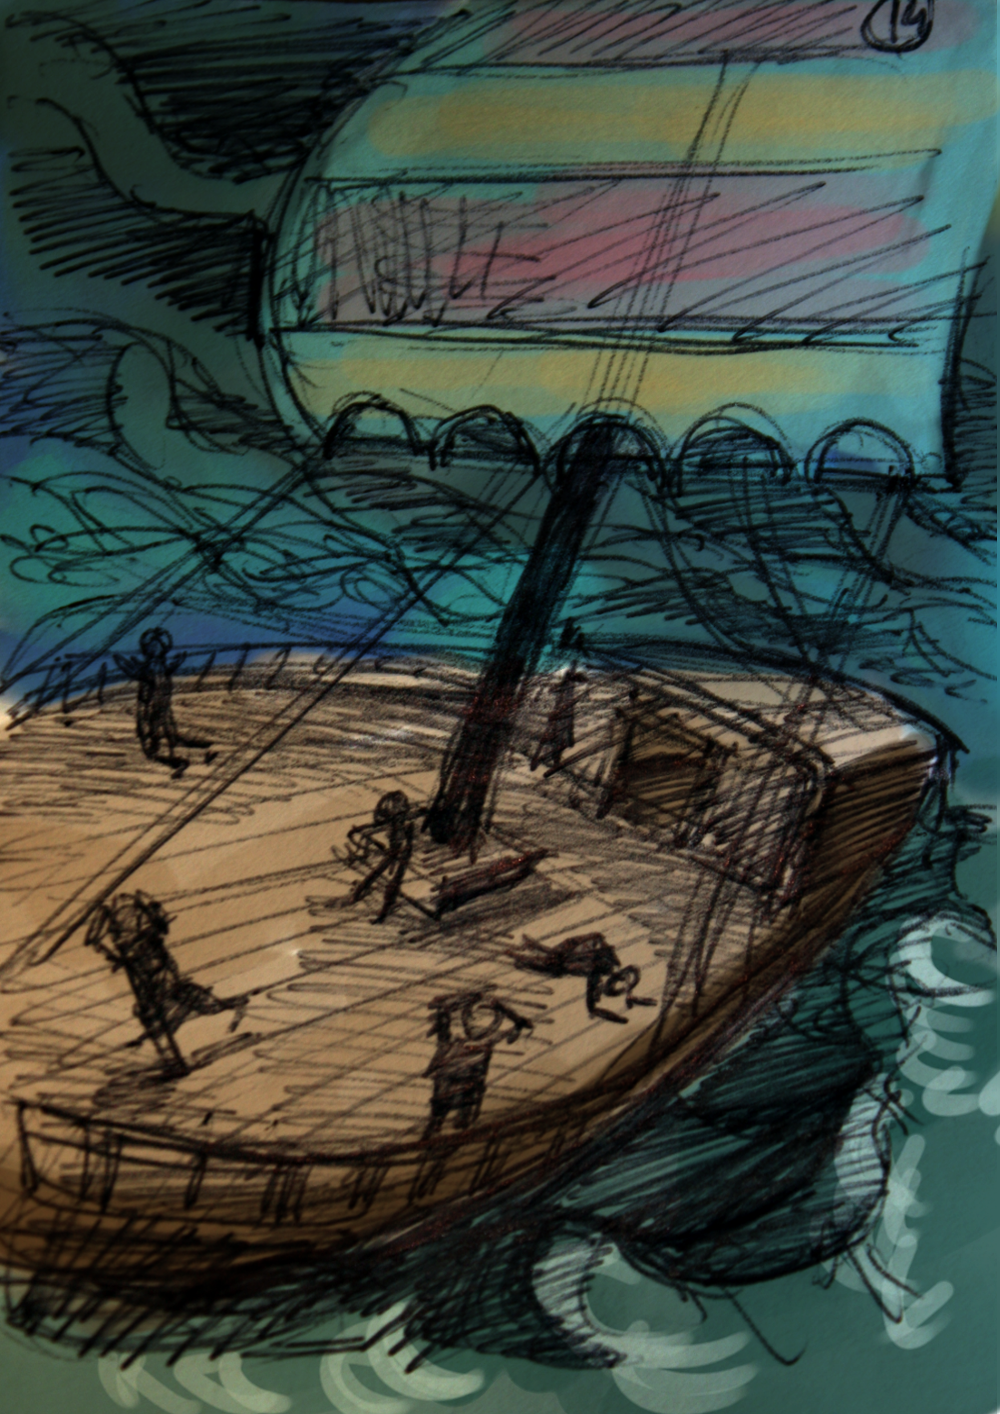
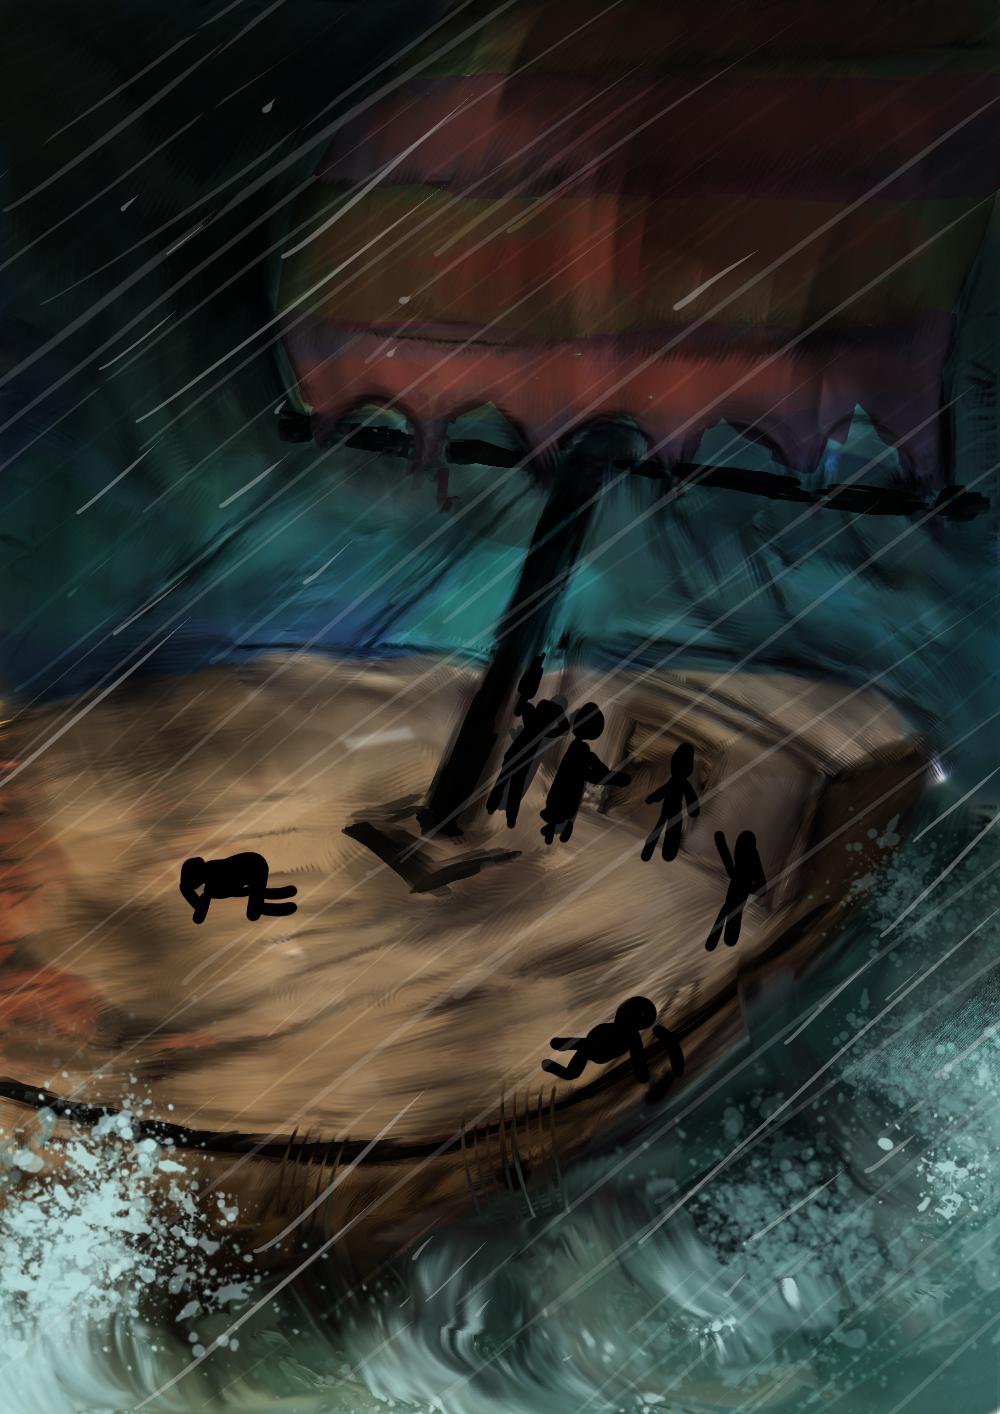
Update 14.

diff --git a/script.js b/script.js
@@ -4,7 +4,7 @@ angular.module('galleryApp', [])
     gallery.language = "ro";
     gallery.work_start_date = new Date(2016,05,20);
 
-    gallery.worked_hours = 131;  // EDIT HERE
+    gallery.worked_hours = 132;  // EDIT HERE
 
     gallery.get_global_progress = function() {
       var index;
@@ -242,7 +242,7 @@ angular.module('galleryApp', [])
       {
         id: 14,
         img: '14.png',
-        done: 50,
+        done: 70,
         text: {
           ro: "1:10. Oamenii aceia au avut o mare teamă şi i-au zis: \"Pentru ce ai făcut lucrul acesta?\" Căci oamenii aceia ştiau că fugea de faţa Domnului, pentru că le spusese el.",
           en: "1:10. Then were the men exceedingly afraid, and said unto him, Why hast thou done this? For the men knew that he fled from the presence of the LORD, because he had told them."
